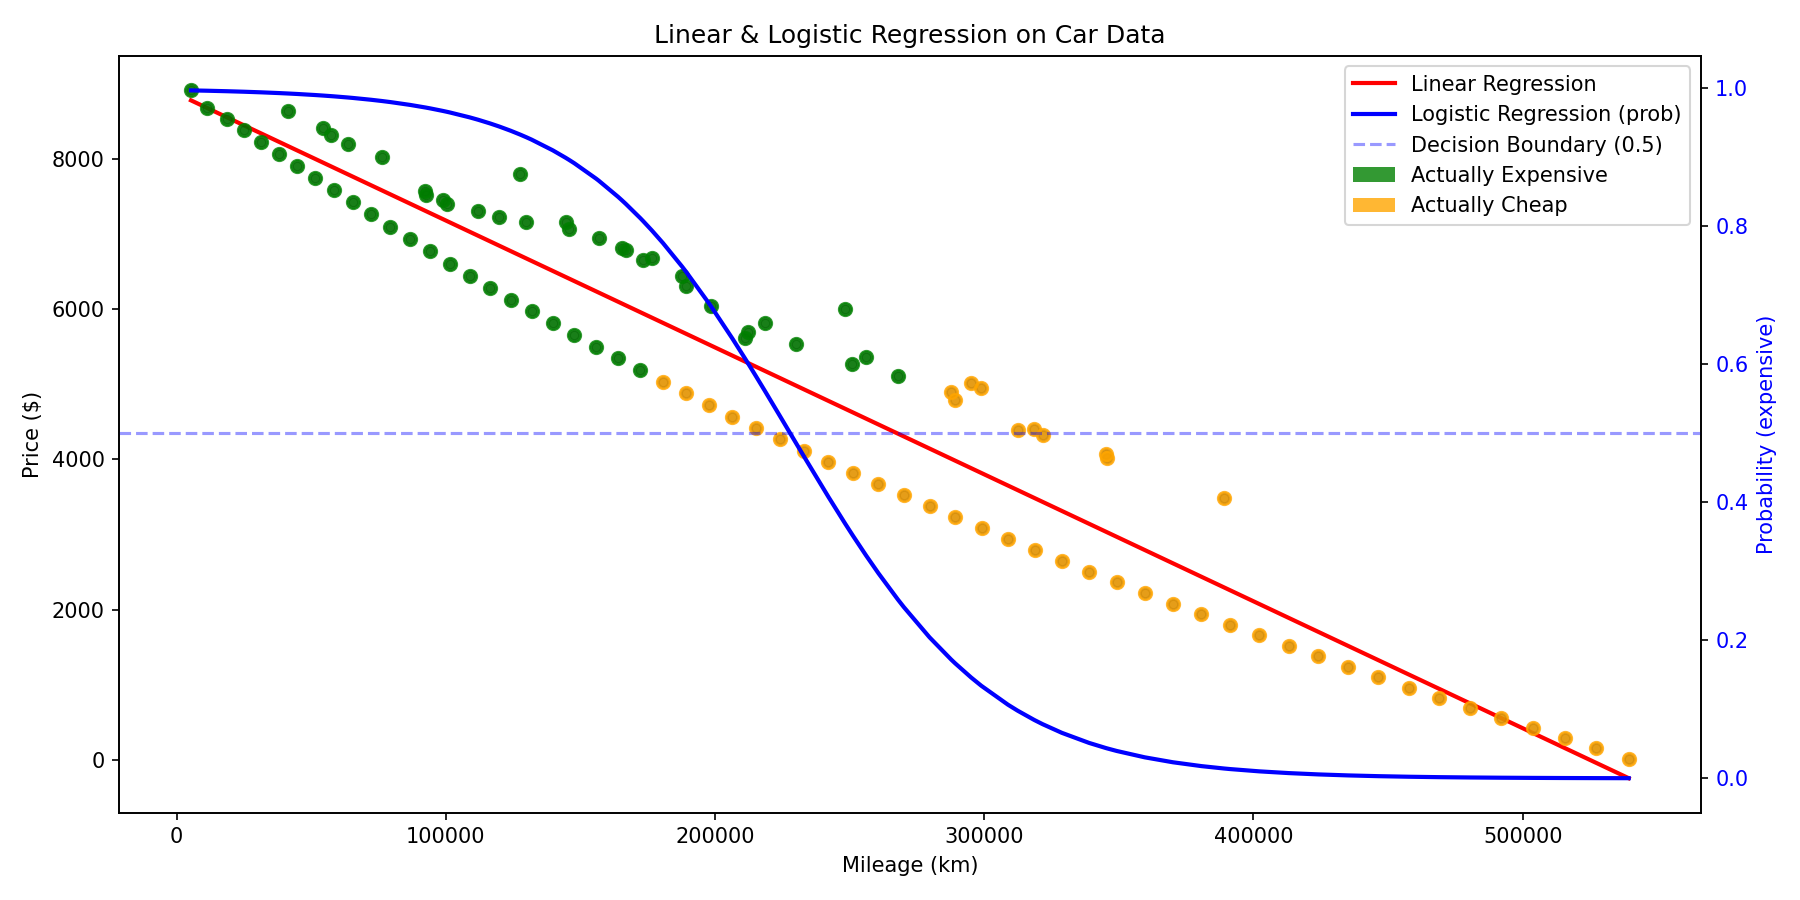
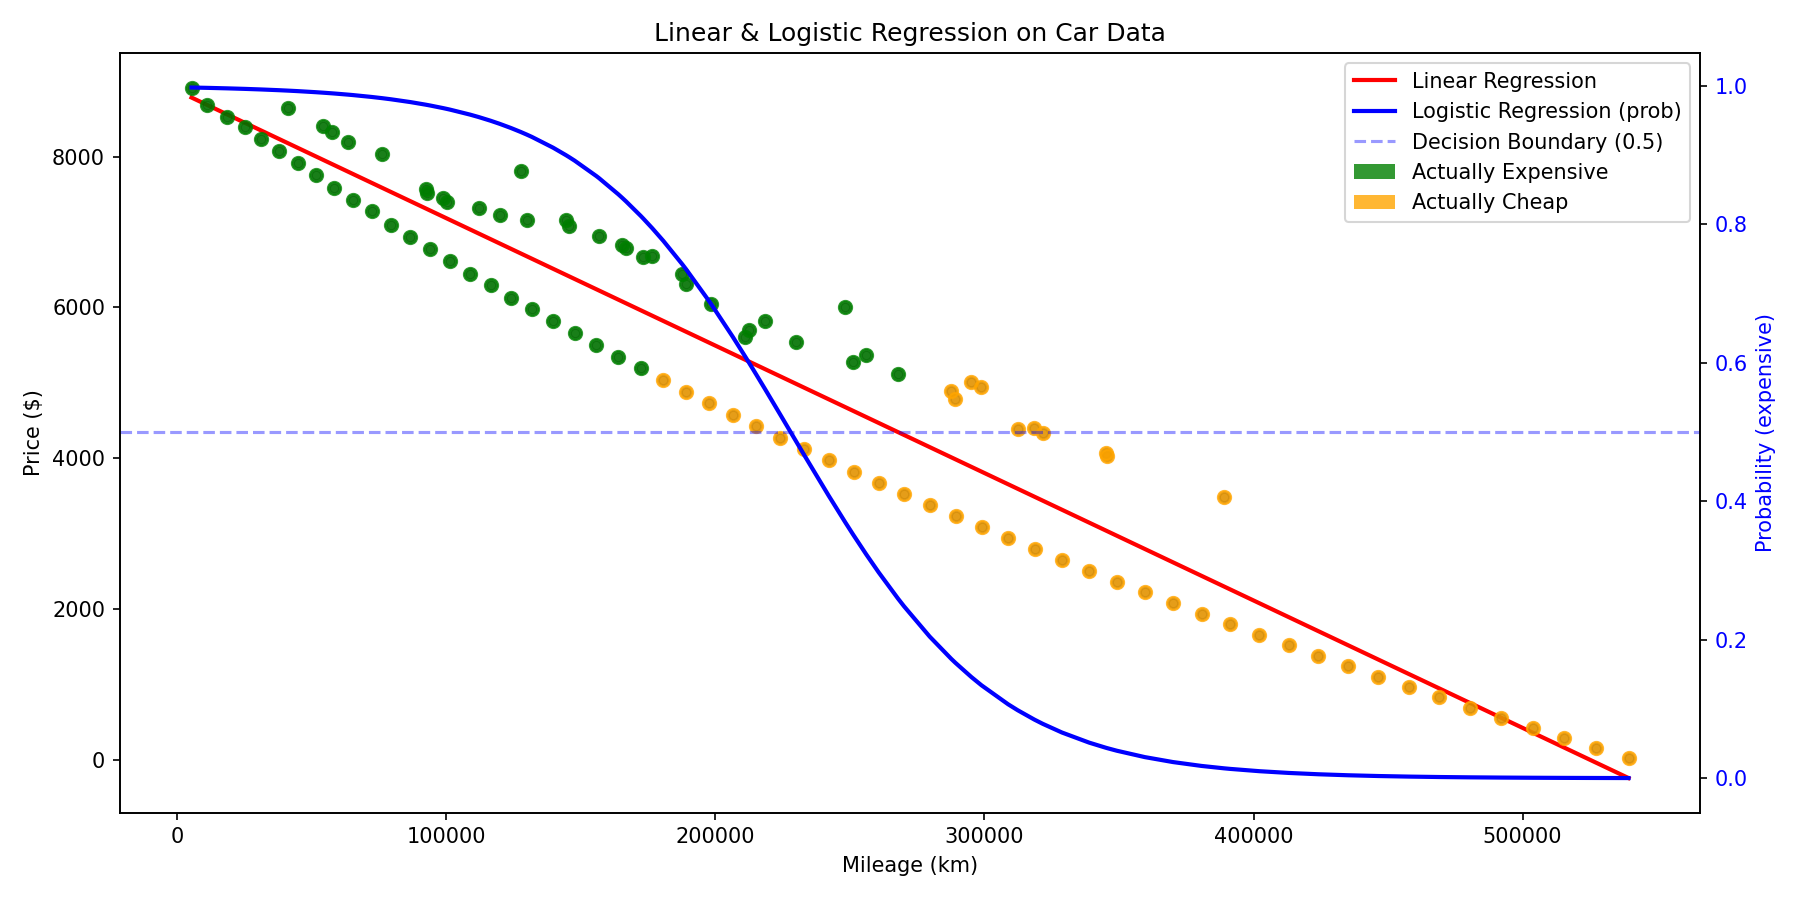
Update README with implementation details for linear and logistic regression; add .gitignore and requirements.txt for Python dependencies

diff --git a/README.md b/README.md
@@ -1,1 +1,56 @@
-# The_Matrix
+# Linear & Logistic Regression – From Scratch
+
+This branch contains a pure C++ implementation of simple linear regression
+and logistic regression, built on a custom **Matrix** class (`Matrix.hpp/.cpp`).
+No external ML libraries – only the standard library.
+
+## What we built
+
+### 1. Matrix class
+A `Matrix` wrapper around `std::vector<std::vector<double>>` supporting:
+- Construction (empty, sized with initial value, copy)
+- Element access via `operator()(row, col)` (1‑based indexing)
+- Addition, subtraction, scalar multiplication
+- Matrix multiplication (row‑by‑column dot product)
+- Transpose
+- `apply(double (*func)(double))` – element‑wise function mapping
+- Pretty printing with Unicode box‑drawing characters (┌ ┐ └ ┘)
+- Random initialisation (`randomize(min, max)`)
+
+### 2. Linear regression (gradient descent)
+- Reads `data.csv` (mileage, price)
+- Builds design matrix `X` (column of 1s for bias, column of normalized mileage)
+  and target vector `y` (prices)
+- Trains parameters θ₀ (bias) and θ₁ (slope) using:
+	pred = X * theta
+	error = pred - y
+	grad = Xᵗ * error / m
+	theta = theta - lr * grad
+- Normalization of mileage to [0,1] for stable convergence
+- Learning rate ~0.1, 1000 iterations
+
+### 3. Logistic regression
+- Converts prices to binary labels (above/below average price)
+- Trains separate θ using sigmoid activation:
+	z = X * theta
+	pred = sigmoid(z)
+	error = pred - y_binary
+
+### 4. Visualisation (Python)
+- `visualisation.py` reads a CSV dumped by the C++ program
+- Plots data points + linear regression line + logistic S‑curve
+- Dependencies: `matplotlib` (see `requirements.txt`)
+
+## Key concepts learned
+- Representing data as matrices (design matrix)
+- Hypothesis function (linear combination)
+- Cost function (Mean Squared Error)
+- Gradient descent
+- Feature scaling / normalization
+- Binary classification with logistic regression (sigmoid)
+- The split between training and prediction programs
+
+## Branch info
+This branch (`regression`) freezes the regression-only stage.
+The next phase (neural networks with `DenseLayer`) continues on another branch
+or in follow-up commits.
